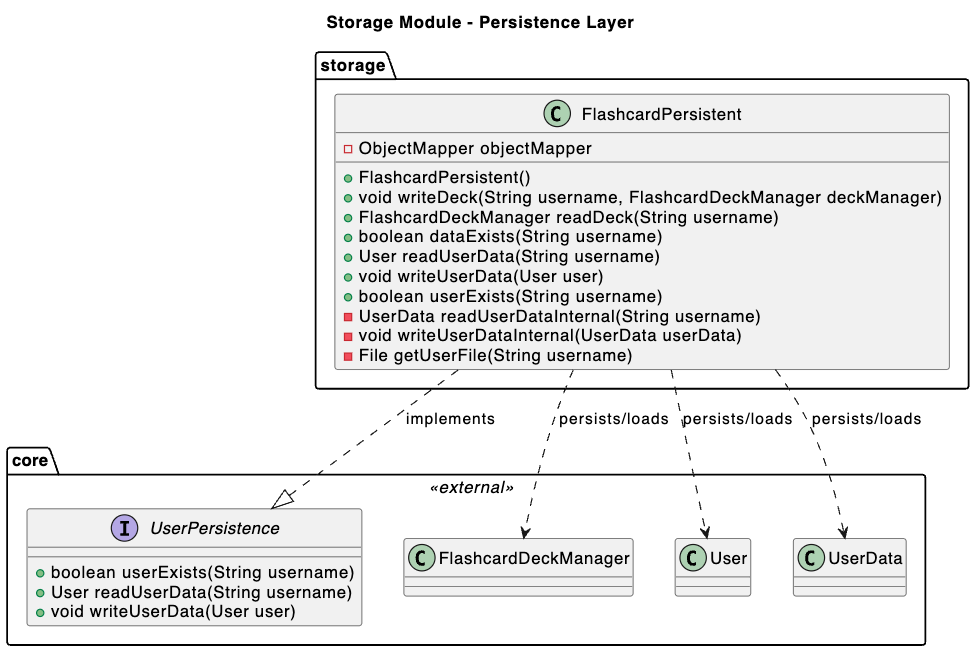
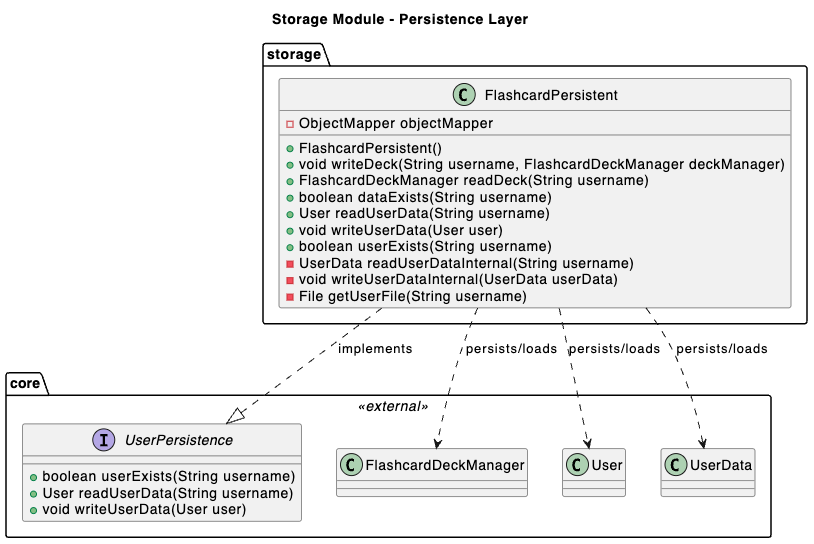
docs(uml): updated diagrams and images with better quality
Necessary for proper and consistent documentation of the project.

#136

diff --git a/flashcards/fxui/src/main/java/ui/FlashcardApp.java b/flashcards/fxui/src/main/java/ui/FlashcardApp.java
@@ -66,11 +66,21 @@ public class FlashcardApp extends Application {
     Application.launch(args);
   }
 
+  /**
+   * Preloads custom fonts used in the application to ensure they are available when needed.
+   * Loads the Ubuntu Regular and Bold fonts from resources.
+   * This ensures consistent font rendering across different platforms.
+   */
   private void preloadFonts() {
     loadFont("/fonts/Ubuntu-Regular.ttf");
     loadFont("/fonts/Ubuntu-Bold.ttf");
   }
 
+  /**
+   * Loads a font from the specified resource path.
+   *
+   * @param path the path to the font resource
+   */
   private void loadFont(String path) {
     try (InputStream stream = getClass().getResourceAsStream(path)) {
       if (stream != null) {

diff --git a/flashcards/fxui/src/test/java/ui/FlashcardLoginControllerTest.java b/flashcards/fxui/src/test/java/ui/FlashcardLoginControllerTest.java
@@ -33,7 +33,6 @@ import javafx.scene.control.Button;
 import javafx.scene.control.TextField;
 import javafx.scene.text.Text;
 import javafx.stage.Stage;
-import org.junit.jupiter.api.AfterAll;
 import org.junit.jupiter.api.BeforeAll;
 import org.junit.jupiter.api.BeforeEach;
 import org.junit.jupiter.api.Test;

diff --git a/docs/release_3/ai_tools.md b/docs/release_3/ai_tools.md
@@ -4,34 +4,39 @@
 
 We used AI as a supportive tool to enhance learning, productivity, and code quality rather than replace our own coding. Most code was written manually, but AI helped with guidance, troubleshooting, and best practices. **GitHub Copilot (Claude Sonnet 4.0)** assisted with dependency management, Maven configuration, testing, generated Javadoc documentation, and bug fixing. **ChatGPT** supported project setup, Java syntax, and GitHub conventions. **Claude AI** improved test organization and configured JaCoCo for coverage reporting. Together, these tools enhanced our workflow and learning throughout the project.
 
-## Classes we have used ai in:
+## Classes we have used ai in
 
-**Core**
-- `PasswordEncoder`: Used claude.ai to identify best practice for secure password handling and hashing. 
-- `PasswordEncoderTest`: Used claude.ai verifying password encoding and matching functionality using JUnit 5. 
+### core
 
-**Fxui**
+- `PasswordEncoder`: Used claude.ai to identify best practice for secure password handling and hashing.
+- `PasswordEncoderTest`: Used claude.ai verifying password encoding and matching functionality using JUnit 5.
+
+### fxui
+
 - `Flashcardcontroller`
-    - `updateprogress()` and `updateUi()`: AI assisted with correct syntax. 
-    - `flipCard()`: AI guided implementation of card rotation. 
+  - `updateprogress()` and `updateUi()`: AI assisted with correct syntax.
+  - `flipCard()`: AI guided implementation of card rotation.
 - `FlashcardDeckController`
-    - `whenCreateButtonIsClicked()`,  `whenDeleteCardButtonIsClicked()` and `loadDeckData()`: AI helped handle API endpoints and correct syntax. 
-- `ApiClientTest`: AI provided guidance on writing correct tests for API handling. 
-- `FlashcardDeckControllerTest`, `FlashcardLoginControllerTest`, `FlashcardMainControllerTest` and `FlashcardSignUpControllerTest`: Parts of the code were genereted with AI assistance for comprehensive test coverage and to implement headless tests, particularly in `initJavaFx()` methods. 
+  - `whenCreateButtonIsClicked()`,  `whenDeleteCardButtonIsClicked()` and `loadDeckData()`: AI helped handle API endpoints and correct syntax.
+- `ApiClientTest`: AI provided guidance on writing correct tests for API handling.
+- `FlashcardDeckControllerTest`, `FlashcardLoginControllerTest`, `FlashcardMainControllerTest` and `FlashcardSignUpControllerTest`: Parts of the code were genereted with AI assistance for comprehensive test coverage and to implement headless tests, particularly in `initJavaFx()` methods.
 
-**Server**
+### server
+
 - `UserController`
-    - `loginUser()`: GitHub Copilot generated the method, helping us understand the required login logic.
+  - `loginUser()`: GitHub Copilot generated the method, helping us understand the required login logic.
 - `DeckControllerTest`, `FlashcardControllerTest`, `UserControllerTest`: Claude AI assisted in comprehensive test coverage.
 - `FlashcardServiceTest` and `UserServiceTest`:
-    - `testGetFlashcard()`, `testGetFlashcardThrows()` and `testCreateUserWithValidation()`: AI assisted in generating tests for thorough coverage and handling mocking. 
+  - `testGetFlashcard()`, `testGetFlashcardThrows()` and `testCreateUserWithValidation()`: AI assisted in generating tests for thorough coverage and handling mocking.
 
-**Shared**
-- `UserMapper`: AI was used to assist in implementing the complex UserMapper code, helping with difficult logic. 
+### shared
+
+- `UserMapper`: AI was used to assist in implementing the complex UserMapper code, helping with difficult logic.
 - `FlashcardDeckMapperTest`, `FlashcardMapperTest`, `UserMapperTest`: AI assisted with generating tests and handling mapper syntax for tests.
 
-**Storage**
+### storage
+
 - `Flashcardpersistent`:
-    - `readUserDataInternal()` and `writeUserDataInternal()`: AI guided logic for reading and writing to user data. 
-- `FlashcardPersistentTest`: 
-    - `cleanup()`: AI helped efficiently handle deletion of multiple test user files. 
+  - `readUserDataInternal()` and `writeUserDataInternal()`: AI guided logic for reading and writing to user data.
+- `FlashcardPersistentTest`:
+  - `cleanup()`: AI helped efficiently handle deletion of multiple test user files.
